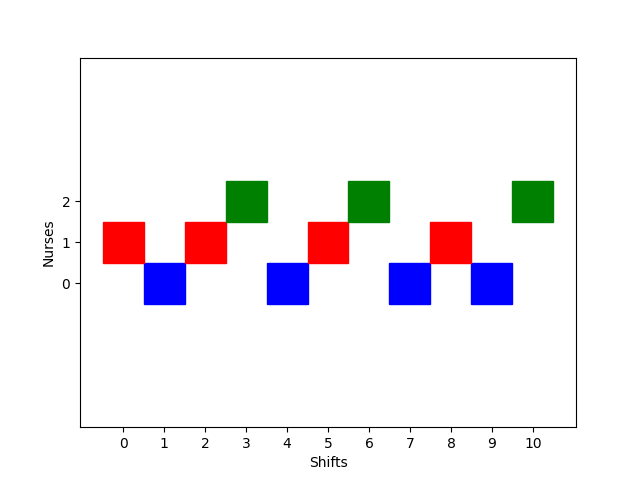
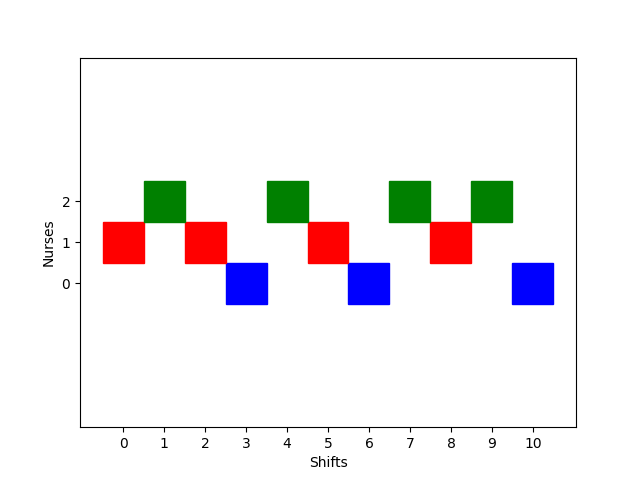
fixed user interface

diff --git a/pages/index.js b/pages/index.js
@@ -3,24 +3,20 @@ import { useState } from "react";
 import styles from "./index.module.css";
 
 export default function Home() {
-  const [queryInput, setQueryInput] = useState("");
-  const [goldQueryInput, setGoldQueryInput] = useState("");
   const [result, setResult] = useState();
   const [output, setOutput] = useState();
-  const [goldQuery, setGoldQuery] = useState();
-  const [codex, setCodexSelected] = useState(false);
-  const [gptDavinci, setGptDavinci] = useState(false);
-  const [gptCurie, setGptCurie] = useState(false);
+  const [nurses, setNurses] = useState('');
+  const [shifts, setShifts] = useState('');
 
-  async function executeQuery(event) {
-  console.log("executeQuery method started: " + result)
+  async function executeSheduler(event) {
+  console.log("executeSheduler method started: Nurses: " + nurses , " and Shifts: " + shifts)
   event.preventDefault();
         const response = await fetch("/api/execute", {
           method: "POST",
           headers: {
             "Content-Type": "application/json",
           },
-          body: JSON.stringify({ query: result , goldQuery: goldQueryInput}),
+          body: JSON.stringify({ noOfNurses: nurses , noOfShifts: shifts}),
         });
       const data = await response.json();
       console.log(data)
@@ -40,21 +36,26 @@ export default function Home() {
       <main className={styles.main}>
         <img src="/img_1.png" className={styles.icon} />
         <h3>Nurse Scheduling System</h3>
-        <form >
-        <label>Number of Nurses</label>
-          <input className={styles.submitBtn} type="text" value="0" />
-          <br/>
-                  <label>Number of Shifts</label>
-          <input className={styles.submitBtn} type="text" value="0" />
-        </form>
-      </main>
-      <input className={styles.evaluateBtn} onClick={executeQuery} type="submit" value="Evaluate Query"/>
-
-      <main className={styles.boxResults}>
-
-      <h4 id="outputResponse"></h4>
+        <br/>
 
       </main>
+            <main className={styles.userInputs}>
+            <div className={styles.nursesBox}>
+       <label>Number of Nurses     </label>
+                <input type="number" value={nurses} onChange={(event)=>setNurses(event.target.value)} className={styles.inputStyle}
+         />
+
+                        <label>Number of Shifts       </label>
+                <input type="number" value={shifts} onChange={(event)=>setShifts(event.target.value)}  className={styles.inputStyle}/>
+                                                      <input className={styles.evaluateBtn} onClick={executeSheduler} type="submit" value="Make Schedule"/>
+
+                </div>
+
+                </main>
+<div>
+      <h4 id="outputResponse" className={styles.boxResults} hidden={output == null}></h4>
+        <img src="/schedule.png" className={styles.result_image} hidden={output == null} />
+</div>
     </div>
   );
 }

diff --git a/pages/index.module.css b/pages/index.module.css
@@ -73,6 +73,7 @@ padding: 12px 12px;
   border-radius: 4px;
   text-align: center;
   cursor: pointer;
+  float: right;
   margin-right: 30px;
   margin-bottom:20px;
 }
@@ -87,31 +88,11 @@ padding: 12px 12px;
     height: 200px
 }
 
- .goldText{
-  padding: 12px 16px;
-  border: 1px solid #10a37f;
-  border-radius: 4px;
-  margin-bottom: 24px;
-  height: 150px;
-  width: 500px;
-  margin-top: 20px;
-}
-
- .predictedText{
-  margin-top: 20px;
-  padding: 12px 16px;
-  border: 1px solid #10a37f;
-  border-radius: 4px;
-  margin-bottom: 24px;
-  height: 150px;
-  width: 500px;
-  margin-right: 40px;
-}
-
-
 .boxResults {
 border: 1px solid #10a37f;
   border-radius: 4px;
+  width: 45%;
+  float: left;
 }
 
 .subrightmain{
@@ -120,4 +101,31 @@ border: 1px solid #10a37f;
 
 .subleftmain {
 width: 30px;
+}
+.result_image {
+border: 1px solid #10a37f;
+  border-radius: 4px;
+       width: 50%;
+       float: right;
+}
+
+.nursesBox {
+text-align: center;
+align-items: center;
+margin-bottom: 10px;
+}
+
+.shiftBox {
+width: 30%;
+text-align: center;
+align-items: center;
+}
+
+.userInputs {
+float: left;
+}
+
+.inputStyle {
+margin-right: 10px;
+margin-top: 10px;
 }

diff --git a/pages/api/execute.js b/pages/api/execute.js
@@ -2,9 +2,10 @@ import { PythonShell } from 'python-shell'
 
 export default async function (req, res1) {
 
+    console.log("values passed to execution: " + req.body.noOfNurses +  " and " + req.body.noOfShifts)
     let options = {
         scriptPath: "D:/Alberta/winter-2023/CMPUT604/projects/CMPUT604-NSP/pages/api/",
-        args: [3, 11]
+        args: [req.body.noOfNurses, req.body.noOfShifts]
     }
     PythonShell.run("nurse_scheduling.py", options, (err, res) => {
     if (err) console.log(err);

diff --git a/pages/api/nurse_scheduling.py b/pages/api/nurse_scheduling.py
@@ -247,21 +247,21 @@ ax.set_xticks(range(n_days))
 ax.set_yticks(range(n_nurses))
 ax.set_xlabel("Shifts")
 ax.set_ylabel("Nurses")
-plt.savefig("schedule.png")
+plt.savefig("./public/schedule.png")
 
 # Print schedule to command-line
-print("\nSchedule:\n")
-for n in range(n_nurses-1, -1, -1):
-    str_row = ""
-    for d in range(n_days):
-        outcome = "X" if (n, d) in sched else " "
-        if d > 9:
-            outcome += " "
-        str_row += "  " + outcome
-    print("Nurse ", n, str_row)
-
-str_header_for_output = " " * 11
-str_header_for_output += "  ".join(map(str, range(n_days)))
-print(str_header_for_output, "\n")
-
-print("Schedule saved as schedule.png.")
+# print("\nSchedule:\n")
+# for n in range(n_nurses-1, -1, -1):
+#     str_row = ""
+#     for d in range(n_days):
+#         outcome = "X" if (n, d) in sched else " "
+#         if d > 9:
+#             outcome += " "
+#         str_row += "  " + outcome
+#     print("Nurse ", n, str_row)
+#
+# str_header_for_output = " " * 11
+# str_header_for_output += "  ".join(map(str, range(n_days)))
+# print(str_header_for_output, "\n")
+#
+# print("Schedule saved as schedule.png.")
